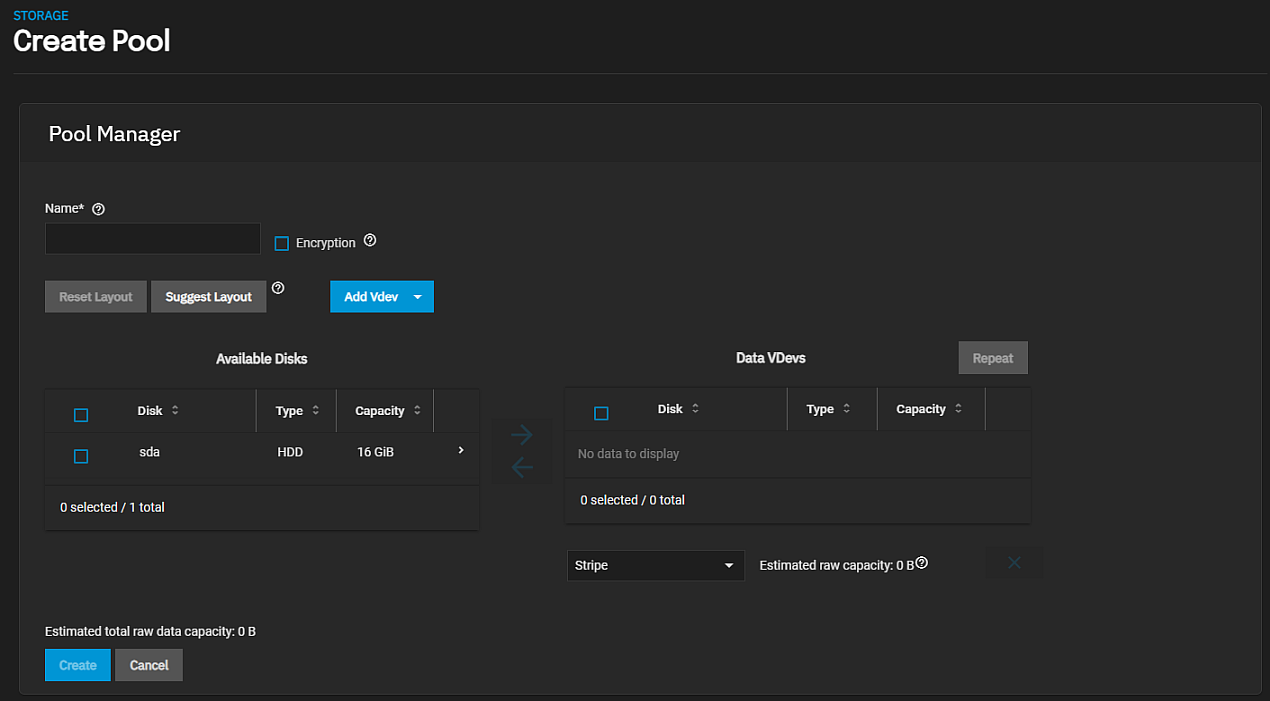
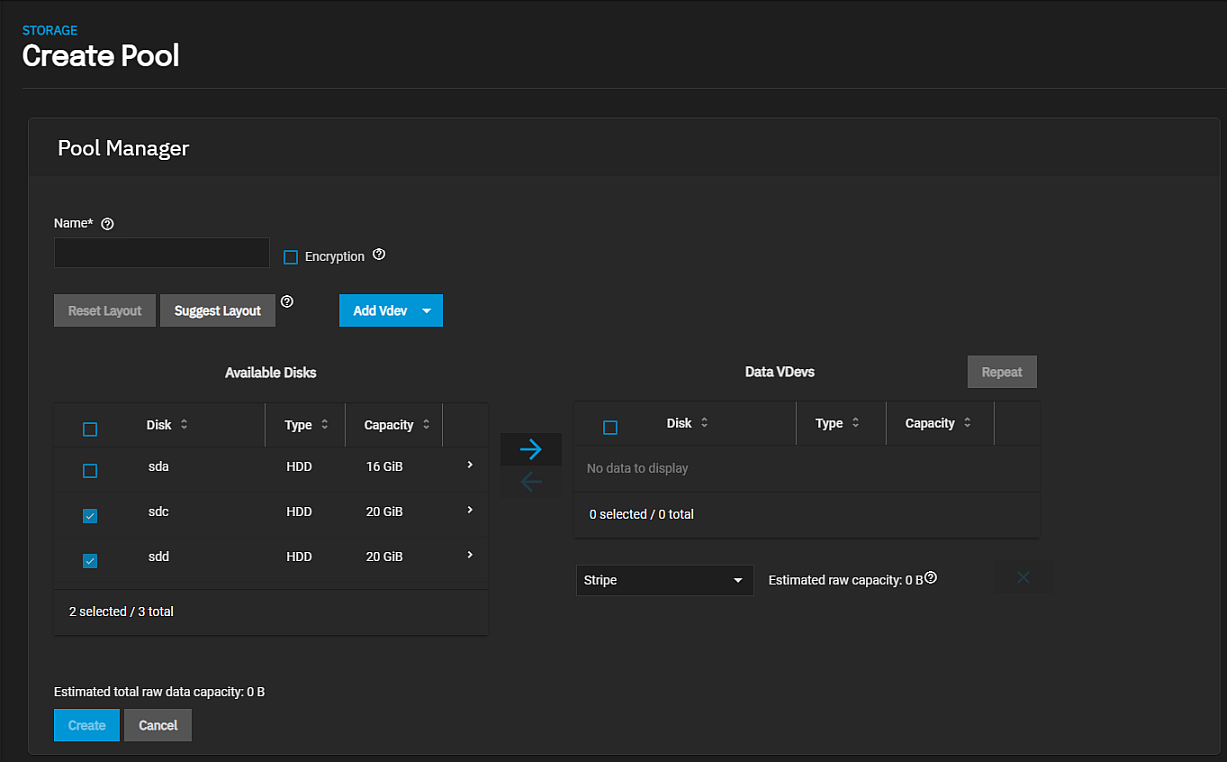
Docs-3404 Interim Commit
This commit saves work to this point.

diff --git a/content/SCALE/SCALEUIReference/Storage/StorageScreen.md b/content/SCALE/SCALEUIReference/Storage/StorageScreen.md
@@ -1,19 +1,155 @@
 ---
 title: "Storage Screens"
-description: "This article provides information on the **Storage** screen and options for pools, datasets or zvols listed on this screen."
+description: "This article provides information on the **Storage** screen widgets and options for pools, devices, datasets and disks listed on this screen."
 weight: 30 
+aliases:
 tags:
-- scalestorage
+- scalepools
+- scaledisks
+- scaledatasets
+- scalescrub
 ---
 
 
-The **Storage** screen displays a list of all the pools and datasets or zvols configured in your TrueNAS. If the system does not have any pools, it displays the **Create Pool** button in the center of the screen.
+{{< toc >}}
 
-![StorageScreenCreateFirstPool](/images/SCALE/22.02/StorageScreenCreateFirstPool.png "Storage Screen Create Pool")
+SCALE Bluefin introduces a new main **Storage Dashboard** screen designed to help users configure storage resources such as devices (vdevs, disks, etc.), manage usage (datasets), keep the pool healthy (scrub), and manage hard disk drive resources (disks). 
 
-After creating pools, datasets and zvols, the screen lists each and provides status of the pool.
+Before adding a pool, the **Storage Dashboard** dislpays the **No Pools** screen with a **Create Pool** button in the center of the screen.
 
-![StorageScreen](/images/SCALE/22.02/StorageScreen.png "SCALE Storage Screen with Pools")
+![StorageDashboardNoPools](/images/SCALE/22.12/StorageDashboardNoPools.png "SCALE Storage Dashboard without Pools") 
+
+Both **Create Pool** buttons (on the top right or center of the screen) open the **Create Pool > [Pool Manager](#pool-manager)** configuration screen. The **Pool Manager** configuration screen displays when adding a new pool and when adding to an existing pool. 
+
+After adding a pool, five widgets display on the screen, one that remains fixed at the top of the dashboard, the other is a set of four for each pool created on the system. 
+
+![StorageDashboardWithPool](/images/SCALE/22.12/StorageDashboardWithPool.png "SCALE Storage Dashboard with Pool") 
+
+**Import** opens the **[Import Pool](#import-pool-screen)** screen.
+
+**Disks** opens the **[Disks]({{< relref "/SCALEUIReference/Storage/Disks/DisksScreens.md" >}})** screen.
+
+## Storage Dashboard Widgets
+The **Storage Dashboard** widgets organize storage functions for each pool by the storage type (VDEVs, datasets, and disks) and related tasks (scrub, or other tasks). 
+After adding a pool to the system, the **Storage Dashboard** displays five widgets. 
+The **Unassigned Resources** widget provides the number of available disks on the system to use in pools. 
+Each pool has a set of four widgets: **[Topology](#topology-widget)** for managing pool virtual devices or VDEVs, **[Usage](#usage-widget)** for managing datasets and zvols, **[ZFS Health](#zfs-health-widget)** for managing pool health and pool functions like scrub and auto TRIM, and **[Disk Health](#disk-health-widget)** for managing disks and disk health. 
+
+Each widgets in the set of four pool widgets includes a color-coded icon just to the right of the header that indicates the status of the pool as healthy (green checkmark), offline (red cross), or in a warning state (purple warning sign). 
+
+### Unused Resources
+The **Unused Resources Unassigned Disks** widget displays the number of disks available on your system to use in pools.
+{{< expand "Click Here for More Information" "v" >}}
+To see information on each disk on the system, click **Manage Disks** on the **[Disk health](#disk-health-widget)** widget.
+
+![StorageDashboardUnusedResourcesWidget](/images/SCALE/22.12/StorageDashboardUnusedResourcesWidget.png "Storage Dashboard Unused Resources Widget") 
+
+**Add To Pool** opens the **[Add to Pool](#add-to-pool-window)** window. 
+
+**New Pool** opens the **Create Pool > [Pool Manager](#pool-manager)** screen. 
+**Existing Pool** opens the **Add VDevs to Pool > [Pool Manager](#pool-manager)** screen.
+{{< /expand >}}
+
+#### Add To Pool Window
+The **Add to Pool** window allows you to select a disk or disks to add to either a new pool or an existing pool.
+{{< expand "Click Here for More Information" "v" >}}
+
+![AddToPoolWindow](/images/SCALE/22.12/AddToPoolWindow.png "Add To Pool") 
+
+The **Unassigned Disks** area displays the amount of storage and number of disks that provides that storage.
+
+The **Add Disks To** area includes two radio buttons:
+* **New Pool** adds a new pool.
+* **Existing Pool** adds the **Existing Pool** field where you select the existing pool from the dropdown list.
+   
+   ![AddToPool-ExistingWindow](/images/SCALE/22.12/AddToPool-ExistingWindow.png "Add To Existing Pool") 
+
+**Add Disks** opens the **[Pool Manager](#pool-manager)** screen for the radio button option you selected, **Create Pool** to add a new VDEV or **Add to a Pool** where you can add to the existing VDEV.
+{{< /expand >}}
+
+### Topology Widget
+The **Topology** widget provides information on VDEVS configured on the system and the status on the pool. 
+{{< expand "Click Here for More Information" "v" >}}
+The widget lists each VDEV type (Data, Metadata, Log, Cache, Spare, and Dedup). Pools with a **Data VDEV** indicates if it is a stripe, mirror, RAID, or mixed configuration, the number of disks, and storage capacity of that VDEV.
+
+
+![StorageDashboardTopologyWidget](/images/SCALE/22.12/StorageDashboardTopologyWidget.png "Storage Dashboard Topology Widget") 
+
+**Manage Devices** opens the **[Devices]({{< relref "DevicesScreenSCALE.md" >}})** screen where you can add  or manage existing VDEVs.
+
+### Usage Widget
+The **Usage** widget provides information on the space used by datasets configured on the system and the status of pool usage. 
+{{< expand "Click Here for More Information" "v" >}}
+The widget includes a donut chart that illustrates the percentage of space used on the pool. 
+This graph is color-coded where blue indicates space usage in the 0-80% range and red for anything above 80%.
+A warning displays below this donut graph when usage is above 80%. 
+**Usable Capaciity** details on the card provide the selected pool space **Used**, **Available**, and **Used by Snapshots**. 
+
+![StorageDashboardUsageWidget](/images/SCALE/22.12/StorageDashboardUsageWidget.png "Storage Dashboard Usage Widget") 
+
+**View Disk Space Reports** opens the pool usage reports for the selected pool.
+
+**Manage Datasets** opens the **[Datasets]({{< relref "DatasetsScreensScale.md" >}})** screen.
+{{< /expand >}}
+
+### ZFS Health Widget
+The **ZFS Health** widget provides information on the health of the pool. 
+{{< expand "Click Here for More Information" "v" >}}
+The details on the widget include **Pool Status** as online of offline, **Total ZFS Errors** which is a count of the number of ZFS errors, **Scheduled Scrub Task** as set or not, and **Auto TRIM** as on or off.
+
+![StorageDashboardZFSHealthWidget](/images/SCALE/22.12/StorageDashboardZFSHealthWidget.png "Storage Dashboard ZFS Health Widget") 
+
+**View all Scrub Tasks** opens the **Data Protections > Scrub Tasks** details screen that lists all scheduled scrub tasks.
+
+**Scrub** opens the **Scrub Pool** dialog. 
+
+**Edit Auto TRIM** opens the dialog that allows you to set this to On.
+{{< /expand >}}
+
+#### Scrub Dialog
+The **Scrub Pool** dialog allows you to perform an unscheduled scrub task. 
+
+![ScrubPoolDialog](/images/SCALE/22.12/ScrubPoolDialog.png "Scrub Pool Dialog")
+
+To schedule a single or a regular pool scrub operation, click **View All Scrub Tasks** to open the **Data Protections > Scrub Tasks** details screen where you can add or manage scrub tasks configured on your system.
+
+#### Auto TRIM Dialog
+**Edit Auto TRIM** opens the dialog that allows you to set this to On.
+
+![PoolOptionsAuotTRIM](/images/SCALE/22.12/PoolOptionsAuotTRIM.png "Pool Option Auto TRIM")
+
+{{< /expand >}}
+### Disk Health Widget
+The **Disk Health** widget provides information on the health of the disks in a pool pool. 
+{{< expand "Click Here for More Information" "v" >}}
+The details on the widget include the non-dismissed disk temperature alerts for highest, lowest and average temperature, and any failed S.M.A.R.T. tests.
+
+![StorageDashboardDiskHealthWidget](/images/SCALE/22.12/StorageDashboardDiskHealthWidget.png "Storage Dashboard Disk Health Widget") 
+
+**Manage Disks** opens the **Storage > [Disk]({{< relref "/SCALEUIReference/Storage/Disks/DisksScreens.md" >}})** screen.
+
+**View Reports** opens the **Report** screen for the disks in the selected pool.
+
+**View all S.M.A.R.T. Tests** opens the **Data Protection > S.M.A.R.T. Tests** screen.
+
+## Pool Manager
+The **Pool Manager** configuration screen displays after clicking **Create Pool** on the **Storage Dashboard** or **Add VDEV** on the **[Devices]({{< relref "DevicesScreensSCALE.md" >}})** screen.
+
+The **Create Pool** button opens the **Create Pool** screen with the **Pool Manager** configuration form.
+
+![StorageCreatePoolPoolManager](/images/SCALE/22.12/StorageCreatePoolPoolManager.png "Storage Create Pool > Pool Manager") 
+
+**Add VDEV** opens the **Add Vdevs to Pool** screen with the **Pool Manager** configuration form for the selected pool.
+
+## Import Pool Screen
+
+The **Import Pool** button opens the **Import Pool** screen where you can select a pool detected by TrueNAS as present on the system but not connected.
+
+![ImportPoolScreen](/images/SCALE/22.12/ImportPoolScreen.png "Import Pool Screen") 
+
+Select the unconnected pool from the **Pool** dropdown list.
+
+**Import** starts the process to connect the pool in TrueNAS and bring it into SCALE.
 
 The **Storage** screen provides access disk, snapshots, and the pool import or creation wizard screens from the buttons and dropdown lists at the top right of the **Storage** screen.
 

diff --git a/content/SCALE/SCALEUIReference/Storage/Pools/DevicesScreensSCALE.md b/content/SCALE/SCALEUIReference/Storage/Pools/DevicesScreensSCALE.md
@@ -1,0 +1,15 @@
+---
+title: "Devices Screens"
+description: "This article provides information on the settings found on and functions of the Devices screens."
+weight: 30
+aliases:
+tags:
+- scaledevices
+- scalevdevs
+---
+
+{{< toc >}}
+
+The **Devices** screen lists VDEVS configured for the selected pool. 
+Each pool
+
